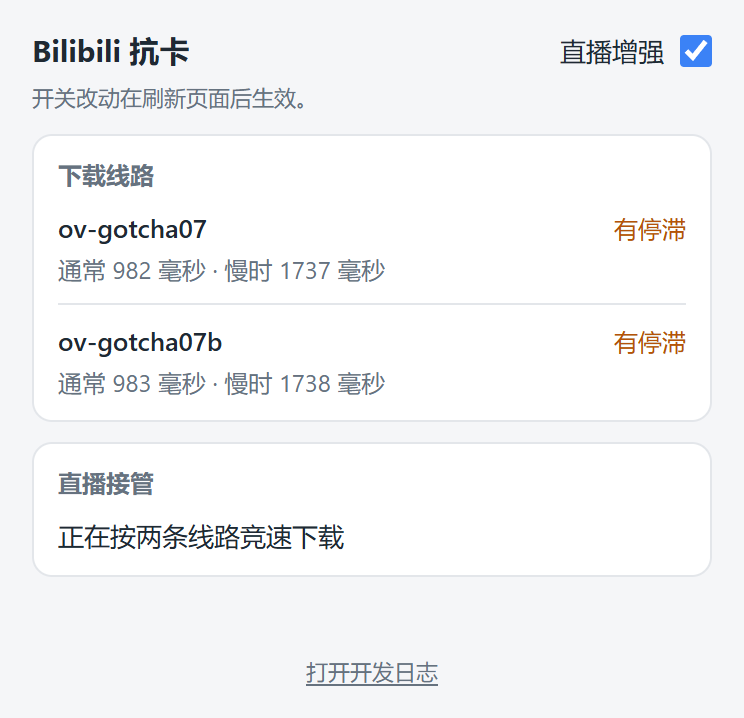
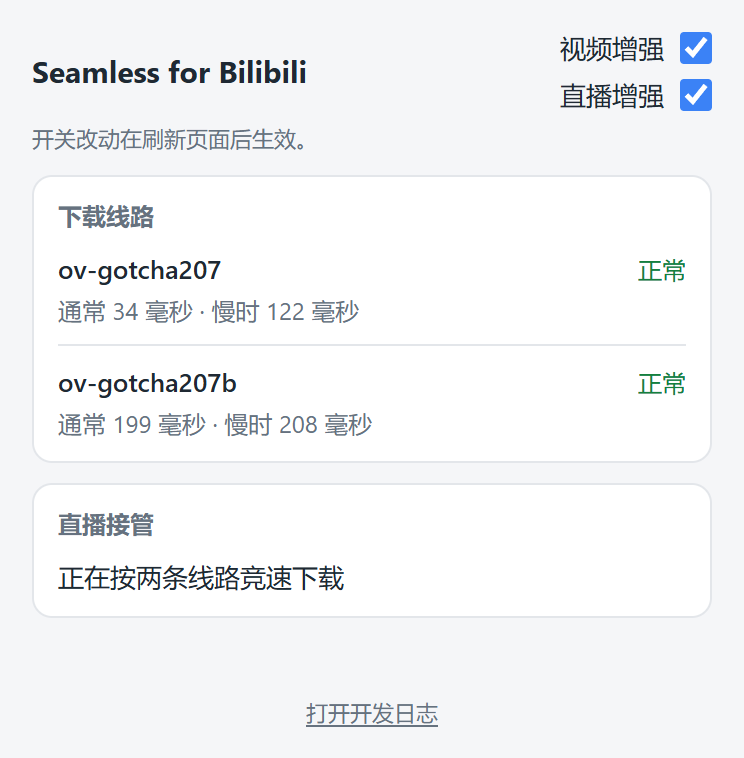
Recapture the store images from the current build
The capture ran end to end on Windows (system Chrome 154, temp profile,
buildId src-b6d327654134c77e866236ab): video BV1esa36qEbN reached 123 s
buffered against the 120 s target with both line cards carrying connection
times; live room 6 streamed HLS with gotcha207/gotcha207b racing, so the popup
showed 正在按两条线路竞速下载 and the live caption is derived from that captured
status. All six stale images are regenerated: both screenshots and both
close-ups now show Seamless for Bilibili with the two always-visible switches,
the close-ups ship at their new full 2x sizes (744x870 / 744x758, the second
switch row makes them taller), and the tile and marquee carry the new name.
The diagram re-renders with the HLS traffic sentence. The capture driver also
learned to trim cmd.exe's trailing-space env values, seen in the first run.

Why: the user uploads these images to the Chrome Web Store as they are; every
image must match the shipped extension before submission.

diff --git a/store/images/README.md b/store/images/README.md
@@ -10,7 +10,7 @@
 | `screenshot-03-racing-diagram.png` | 1280×800 | 机制示意图：双镜像竞速、120 秒缓冲、流量代价 |
 | `promo-tile-440x280.png` | 440×280 | 小型宣传图（必需项） |
 | `marquee-1400x560.png` | 1400×560 | Marquee 宣传图（可选项） |
-| `popup-video.png` / `popup-live.png` | 744×828 / 744×718 | 弹窗特写原图（README 复用；2× 设备像素，完整弹窗：标题行双开关、全部卡片、日志链接都在画内） |
+| `popup-video.png` / `popup-live.png` | 744×870 / 744×758 | 弹窗特写原图（README 复用；2× 设备像素，完整弹窗：标题行双开关、全部卡片、日志链接都在画内） |
 
 ## 再生步骤
 
@@ -33,9 +33,11 @@
 
 ## 捕获来源（2026-09-28 第二次）
 
-- commit 与 buildId 见本次 `store-images-raw/report.json` 的 `provenance`（随捕获自动写入）；
-  Chrome 154.0.8037.57（系统 Chrome，Windows），临时专用 profile，未登录，`--force-device-scale-factor=2`。
-- 视频：BV1esa36qEbN（播放量 < 10 的冷门视频）；直播：房间 6（当天上午实测播放器走 HLS fMP4 分片、
-  双线路竞速的房间；弹窗显示「正在按两条线路竞速下载」）。实际格式以 `report.json` 的 `liveFormat` 为准。
+- commit `1d18769625dbb8bd39bb1a1d66e1bd687b434613`，buildId `src-b6d327654134c77e866236ab`（与 `report.json`
+  的 `provenance` 一致，随捕获自动写入）；Chrome 154.0.8037.57（系统 Chrome，Windows），临时专用 profile，
+  未登录，`--force-device-scale-factor=2`。
+- 视频：BV1esa36qEbN（播放量 < 10 的冷门视频），缓冲 123 秒 / 目标 120 秒已生效，两条线路卡均带连接时间；
+  直播：房间 6，播放器走 HLS（fMP4 分片，gotcha207 与 gotcha207b 两路竞速，`report.json` 的 `liveFormat`
+  为 `HLS`），弹窗显示「正在按两条线路竞速下载」。
 - 捕获即验证：弹窗读数（双开关、缓冲条、120 秒申请状态、线路健康词与连接时间、直播接管行）来自真实运行，
   深色模式经 `prefers-color-scheme` 模拟逐像素核对（健康词整词着色，无半色缺陷）。
